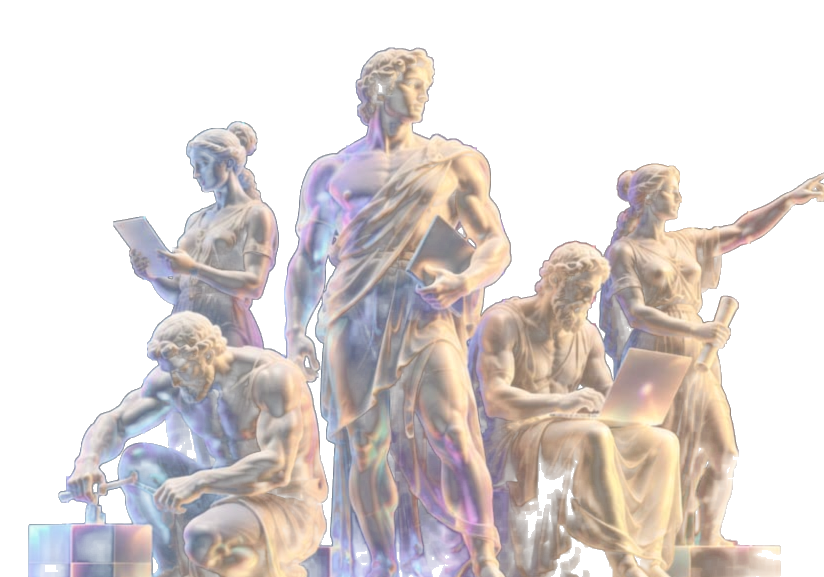
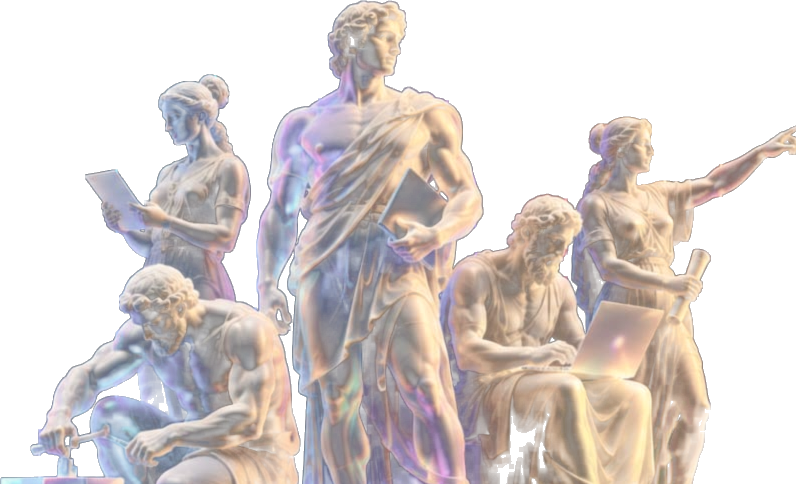
fix(marketing): clean the workforce key and stop it clipping at the viewport edge
Three defects the deployed render exposed, none of which were visible in the source plate:

- A smear of bar light survived behind the kneeling figure, plus specks near the base. The
  colour gates drop saturated pixels, but where a bar passed behind a figure the bar's light
  lands on marble and keys through. Removed by labelling the alpha mask's connected regions
  and keeping only those above 2% of the visible area — pure Python flood fill, since numpy
  and scipy are not installed here. Two regions dropped (337px, 46px); the figure group is a
  single connected mass, so nothing legitimate was lost.
- The translucent pedestal blocks read as glass debris once the neon was gone. Cropped at the
  feet line; the hero's bottom mask hides the cut.
- At 1440px the pointing figure's hand was cut by the viewport edge. The container moved in
  from -4% to +1% and the artwork from 104% to 100% width: right edge now lands at 1418px.

Verified: 796x484 intrinsic, right edge inside the viewport, no horizontal overflow at 1440 or
390, all six figures complete, no wordmark or bar remnant anywhere.

diff --git a/apps/web/src/components/marketing/hero-aurora.tsx b/apps/web/src/components/marketing/hero-aurora.tsx
@@ -46,7 +46,7 @@ export function HeroAurora() {
       <div className="absolute inset-0 [background:radial-gradient(34%_32%_at_56%_72%,rgba(123,0,255,0.08),transparent_74%)]" />
 
       {/* desktop: the workforce, aurora behind it */}
-      <div className="absolute right-[-4%] top-1/2 hidden -translate-y-1/2 lg:block">
+      <div className="absolute right-[1%] top-1/2 hidden -translate-y-1/2 lg:block">
         <div className="relative aspect-square w-[clamp(380px,50vw,700px)]">
           <div className="aurora-core absolute inset-[8%] rounded-full opacity-[0.22]" />
 
@@ -81,11 +81,11 @@ export function HeroAurora() {
           <img
             src="/images/gc3-pod-workforce.png"
             alt=""
-            width={944}
-            height={697}
+            width={796}
+            height={484}
             loading="eager"
             decoding="async"
-            className="absolute bottom-[-2%] left-1/2 w-[104%] max-w-none -translate-x-1/2 [filter:drop-shadow(0_24px_60px_rgba(0,0,0,0.65))] [mask-image:linear-gradient(to_bottom,#000_78%,transparent_100%)]"
+            className="absolute bottom-[-2%] left-1/2 w-[100%] max-w-none -translate-x-1/2 [filter:drop-shadow(0_24px_60px_rgba(0,0,0,0.65))] [mask-image:linear-gradient(to_bottom,#000_78%,transparent_100%)]"
           />
         </div>
       </div>
@@ -98,8 +98,8 @@ export function HeroAurora() {
           <img
             src="/images/gc3-pod-workforce.png"
             alt=""
-            width={944}
-            height={697}
+            width={796}
+            height={484}
             loading="eager"
             decoding="async"
             className="relative w-full opacity-55 [mask-image:linear-gradient(to_bottom,#000_66%,transparent_100%)]"
